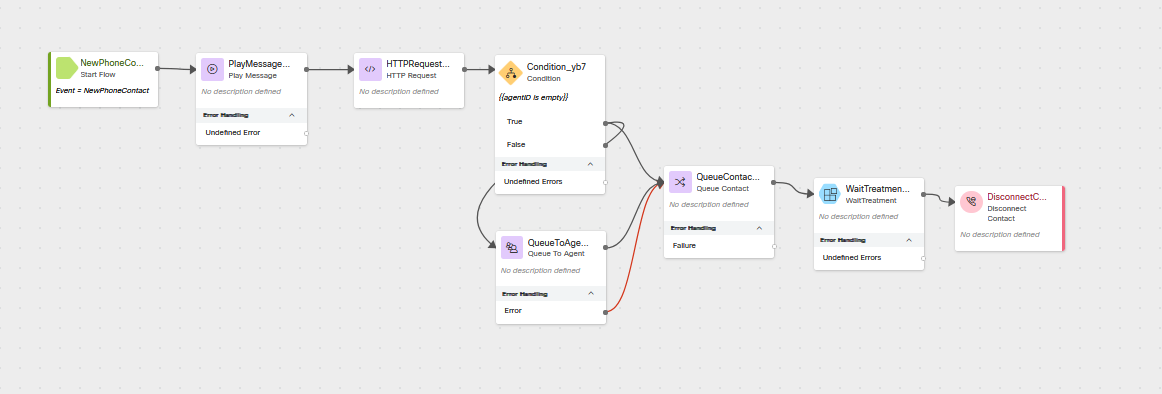
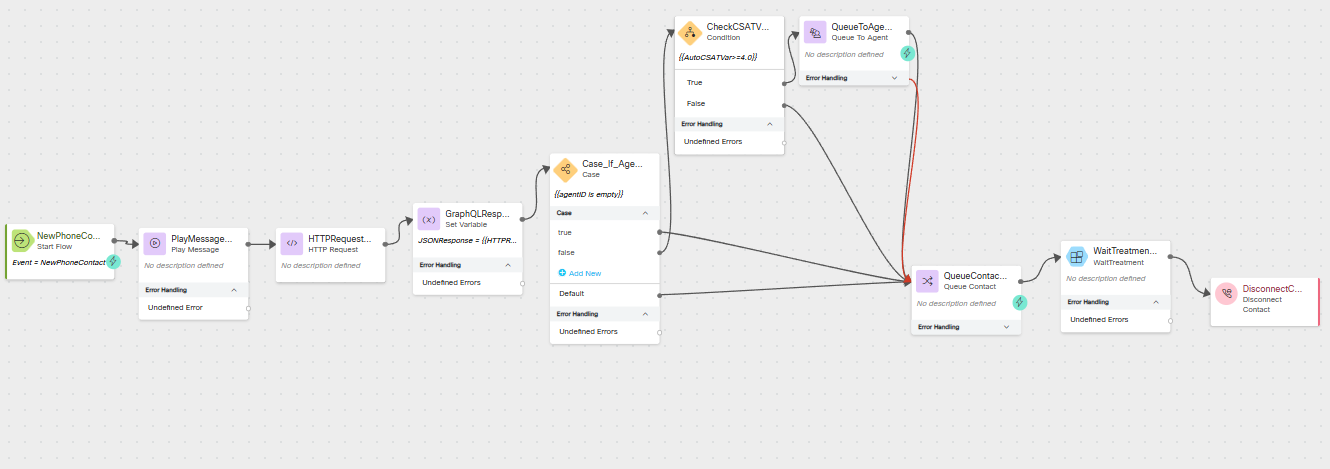
02.09

diff --git a/docs/main/APITrack_Mission3_AutoCSAT.md b/docs/main/APITrack_Mission3_AutoCSAT.md
@@ -211,13 +211,13 @@ Your mission is to:
 5. Add a **Case** node
 
     >
-    > Activity Label: **Case_If_CSATEmpty**<span class="copy-static" data-copy-text="Case_If_CSATEmpty"><span class="copy" title="Click to copy!"></span></span>
+    > Activity Label: **Case_If_AgentIDEmpty**<span class="copy-static" data-copy-text="Case_If_AgentIDEmpty"><span class="copy" title="Click to copy!"></span></span>
     > 
     > Connect the output node edge from teh **GraphQL_Response** node to this node
     >
     > Select **Build Expression**
     >
-    Expression: `{{ AutoCSATVar is empty}}`<span class="copy-static" data-copy-text="{{ AutoCSATVar is empty}}"><span class="copy" title="Click to copy!"></span></span>
+    Expression: `{{agentid is empty}}`<span class="copy-static" data-copy-text="{{ agentid is empty}}"><span class="copy" title="Click to copy!"></span></span>
     >
     > Change **Case 0** to **true**
     >
@@ -238,6 +238,8 @@ Your mission is to:
     >
     > Expression: `{{AutoCSATVar>=4.0}}`<span class="copy-static" data-copy-text="{{AutoCSATVar>=4.0}}"><span class="copy" title="Click to copy!"></span></span>
     >
+
+    ![profiles](../graphics/Lab2/LAR_Condition.gif)
 
 7.  Add a **Queue To Agent** node
 
@@ -261,13 +263,14 @@ Your mission is to:
     > Recovery Queue: **<span class="attendee-id-container"><span class="attendee-id-placeholder" data-suffix="_Queue">Your_Attendee_ID</span>_Queue<span class="copy" title="Click to copy!"></span></span>**
     >
 
+    ![profiles](../graphics/Lab2/LAR_QtoAgent.gif)
 
 8. Add a **Queue Contact** node
 
     >
     > Connect the **False** node edge from the **CheckCSATValue** node created in **Step 6** to this node
     >
-    > Connect **true** node edge of **Case_If_CSATEmpty** node created in **Step 7** to this node
+    > Connect **true** node edge of **Case_If_AgentIDEmpty** node created in **Step 5** to this node
     > 
     > Connect **Queue To Agent** Output and Error node edges created in previous step to this **Queue Contact**
     >
@@ -275,7 +278,7 @@ Your mission is to:
     >
     > Queue: **<span class="attendee-id-container"><span class="attendee-id-placeholder" data-suffix="_Queue">Your_Attendee_ID</span>_Queue<span class="copy" title="Click to copy!"></span></span>**
     >
-
+    ![profiles](../graphics/Lab2/LAR_QueueContact.gif)
 
 9. Add a **Subflow** node and **DisconnectContact** node
 
@@ -296,7 +299,7 @@ Your mission is to:
     >
     > Subflow Output Variables: **None**
     >
-
+    ![profiles](../graphics/Lab2/LAR_Wait.gif)
 
 10. Navigate to **Event Flows** and add **GoTo** node to the canvas.
 
@@ -306,8 +309,6 @@ Your mission is to:
     > Flow: **CCBU_PostCallSurvey_AutoCSAT**<span class="copy-static" data-copy-text="CCBU_PostCallSurvey_AutoCSAT"><span class="copy" title="Click to copy!"></span></span>
     >
     > Choose Version Label: **Latest**
-
-
 
     <details><summary>Check your flow</summary>![Profiles](../graphics/Lab2/L2M5_LARwCSAT.png)</details>
 
@@ -323,6 +324,8 @@ Your mission is to:
     >
     > Click **Publish** Flow
 
+   ![profiles](../graphics/Lab2/LAR_EventGoTo.gif)
+
 12. Map your flow to your inbound channel
     
     > Navigate to Control Hub > Contact Center > Channels
@@ -335,7 +338,7 @@ Your mission is to:
     >
     > Click Save in the lower right corner of the screen
 
-      ![profiles](../graphics/Lab2/L2M5_Publish&EPmap.gif)  
+   ![profiles](../graphics/Lab2/LAR_Channel.gif) 
 ---
 
 ## Testing
@@ -348,8 +351,10 @@ Your mission is to:
 3. In your flow, open the debuger and select the latest call from the list (on top of the list).
       1. Trace the steps taken in the flow
       2. Select **GraphQL_Query** and scroll down the details panel on the right-hand side to **Modified Variables**. They should be empty since there are no CSAT scores at the moment you made the first call.
-      3. **Case_If_CSATEmpty** should exit via **true** node edge as the **GraphQL_Query** had no response, hence the call arrived to your agent via **<span class="attendee-id-container"><span class="attendee-id-placeholder" data-suffix="_Queue">Your_Attendee_ID</span>_Queue<span class="copy" title="Click to copy!"></span></span>** and not via **QueueToAgent** node.
-     
+      3. **Case_If_AgentIDEmpty** should exit via **true** node edge as the **GraphQL_Query** had no response, hence the call arrived to your agent via **<span class="attendee-id-container"><span class="attendee-id-placeholder" data-suffix="_Queue">Your_Attendee_ID</span>_Queue<span class="copy" title="Click to copy!"></span></span>** and not via **QueueToAgent** node.
+
+
+
 4. Make sure your agent status is set to **Available**
 
 5. Using Webex App, place another call to your Inbound Channel number **<span class="attendee-id-container"><span class="attendee-id-placeholder" data-suffix="_Channel">Your_Attendee_ID</span>_Channel<span class="copy" title="Click to copy!"></span></span>**
@@ -365,7 +370,7 @@ Your mission is to:
             In JSON Response the **autoCsat** is set to **null**.  This is expected because the lab environment lacks sufficient data to train the AI model for accurate scoring.
             ![profiles](../graphics/Lab2/AutoCSAT_null.png)
       
-      4. **Case_If_CSATEmpty** should exit via **false** node edge as the **GraphQL_Query** is not empty.
+      4. **Case_If_AgentIDEmpty** should exit via **false** node edge as the **GraphQL_Query** is not empty.
       5. **CheckCSATValue** is now equals **4** which matches the condition hence the call arrived to your agent via **QueueToAgent** node.
 
 ---
